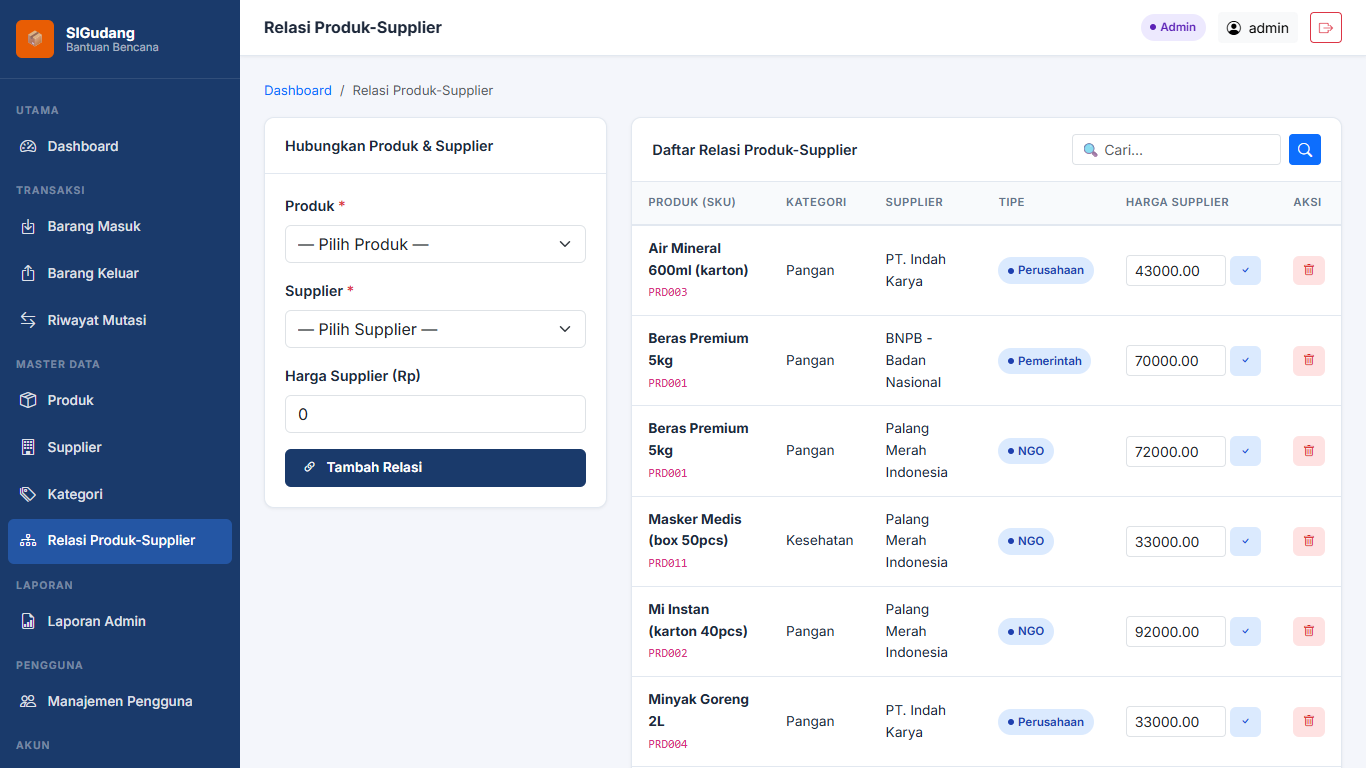
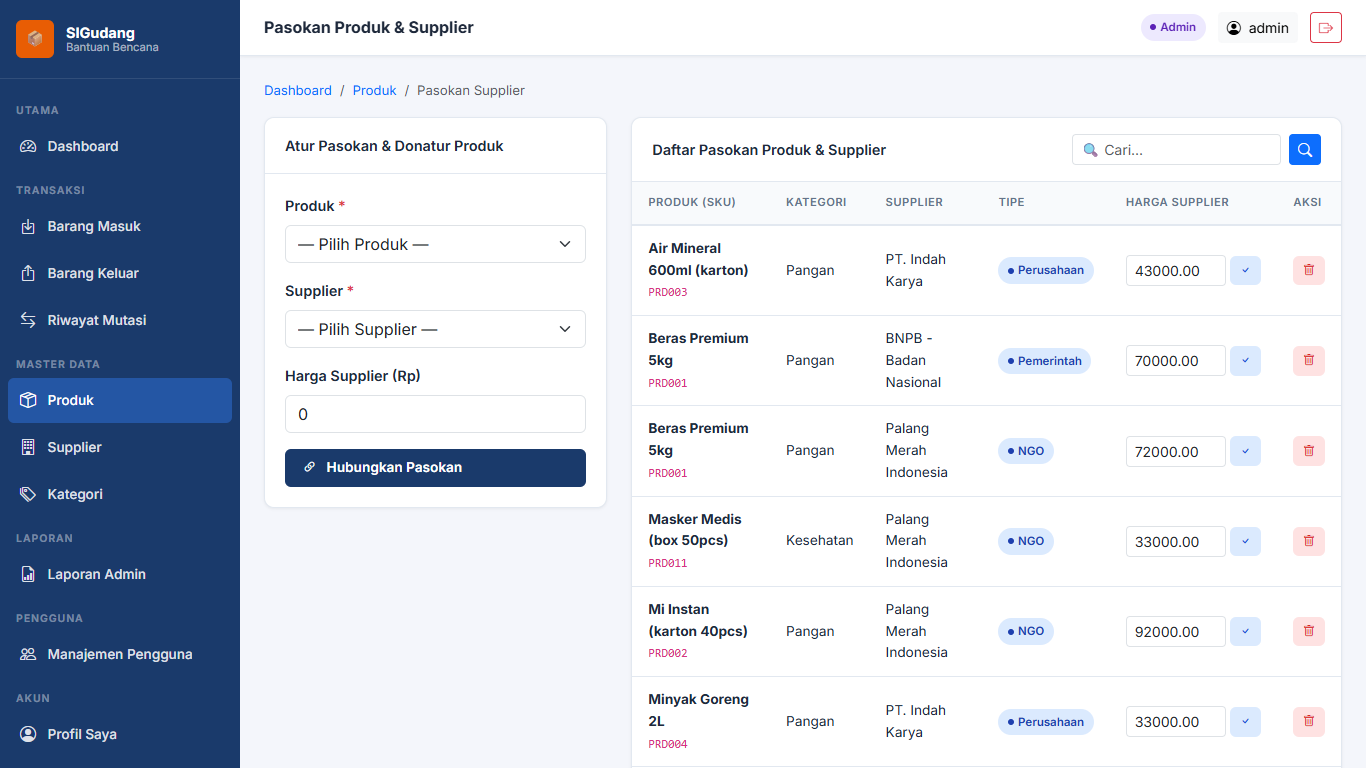
refactor(ui): bersihkan sidebar dari label relasi teknis dan integrasikan pasokan supplier ke modul produk secara profesional

diff --git a/admin/produk_supplier.php b/admin/produk_supplier.php
@@ -71,18 +71,18 @@ $rows = $st->fetchAll();
 $products  = $db->query("SELECT id,sku,name FROM products ORDER BY name")->fetchAll();
 $suppliers = $db->query("SELECT id,name,type FROM suppliers ORDER BY name")->fetchAll();
 
-$pageTitle = 'Relasi Produk-Supplier';
-$activeMenu = 'produk_supplier';
+$pageTitle = 'Pasokan Produk & Supplier';
+$activeMenu = 'produk';
 include dirname(__DIR__) . '/views/partials/header_admin.php';
 ?>
-<nav class="breadcrumb-bar"><ol class="breadcrumb"><li class="breadcrumb-item"><a href="<?= BASE_URL ?>/admin/dashboard.php">Dashboard</a></li><li class="breadcrumb-item active">Relasi Produk-Supplier</li></ol></nav>
+<nav class="breadcrumb-bar"><ol class="breadcrumb"><li class="breadcrumb-item"><a href="<?= BASE_URL ?>/admin/dashboard.php">Dashboard</a></li><li class="breadcrumb-item"><a href="<?= BASE_URL ?>/admin/produk.php">Produk</a></li><li class="breadcrumb-item active">Pasokan Supplier</li></ol></nav>
 <?php if ($msg): ?><div class="alert alert-<?= $msgType ?> alert-dismissible fade show"><?= e($msg) ?><button type="button" class="btn-close" data-bs-dismiss="alert"></button></div><?php endif; ?>
 
 <div class="row g-4">
   <!-- Form tambah relasi -->
   <div class="col-lg-4">
     <div class="card-panel">
-      <div class="card-panel-header">Hubungkan Produk & Supplier</div>
+      <div class="card-panel-header">Atur Pasokan & Donatur Produk</div>
       <div class="card-panel-body">
         <form method="POST">
           <?= csrfField() ?>
@@ -105,7 +105,7 @@ include dirname(__DIR__) . '/views/partials/header_admin.php';
             <label class="form-label fw-semibold">Harga Supplier (Rp)</label>
             <input type="number" name="supplier_price" class="form-control" value="0" min="0">
           </div>
-          <button type="submit" class="btn-primary-custom w-100"><i class="bi bi-link-45deg me-1"></i>Tambah Relasi</button>
+          <button type="submit" class="btn-primary-custom w-100"><i class="bi bi-link-45deg me-1"></i>Hubungkan Pasokan</button>
         </form>
       </div>
     </div>
@@ -115,7 +115,7 @@ include dirname(__DIR__) . '/views/partials/header_admin.php';
   <div class="col-lg-8">
     <div class="card-panel">
       <div class="card-panel-header">
-        <span>Daftar Relasi Produk-Supplier</span>
+        <span>Daftar Pasokan Produk & Supplier</span>
         <form method="GET" class="d-flex gap-2">
           <input type="text" name="q" class="form-control form-control-sm" placeholder="🔍 Cari..." value="<?= e($search) ?>">
           <button type="submit" class="btn btn-sm btn-primary"><i class="bi bi-search"></i></button>

diff --git a/admin/produk.php b/admin/produk.php
@@ -108,9 +108,14 @@ include dirname(__DIR__) . '/views/partials/header_admin.php';
 
 <div class="d-flex justify-content-between align-items-center mb-3">
   <div></div>
-  <button class="btn-primary-custom" data-bs-toggle="modal" data-bs-target="#modalProduk" onclick="resetForm()">
-    <i class="bi bi-plus-lg"></i> Tambah Produk
-  </button>
+  <div class="d-flex gap-2">
+    <a href="<?= BASE_URL ?>/admin/produk_supplier.php" class="btn btn-outline-primary">
+      <i class="bi bi-truck me-1"></i> Pasokan Supplier
+    </a>
+    <button class="btn-primary-custom" data-bs-toggle="modal" data-bs-target="#modalProduk" onclick="resetForm()">
+      <i class="bi bi-plus-lg"></i> Tambah Produk
+    </button>
+  </div>
 </div>
 
 <!-- Filter -->

diff --git a/views/partials/header_admin.php b/views/partials/header_admin.php
@@ -79,11 +79,6 @@ $activeMenu = $activeMenu ?? '';
         <i class="bi bi-tags nav-icon"></i> Kategori
       </a>
     </div>
-    <div class="nav-item">
-      <a href="<?= BASE_URL ?>/admin/produk_supplier.php" class="nav-link <?= $activeMenu==='produk_supplier'?'active':'' ?>">
-        <i class="bi bi-diagram-3 nav-icon"></i> Relasi Produk-Supplier
-      </a>
-    </div>
 
     <div class="nav-section-label">Laporan</div>
     <div class="nav-item">

diff --git a/README.md b/README.md
@@ -118,11 +118,11 @@ Berikut adalah tangkapan layar asli (*live captured*) dan penjelasan fungsional 
 - **Fitur Utama**: CRUD data supplier, klasifikasi tipe lembaga, nomor kontak darurat, alamat, dan visibilitas publik.
 - **Teknis Backend**: Validasi integritas relasi referensial sebelum aksi hapus supplier.
 
-#### 15. Manajemen Relasi Many-to-Many Produk-Supplier (`admin/produk_supplier.php`)
-![Halaman 15: Relasi Produk Supplier](docs/screenshots/13_admin_produk_supplier.png)
-- **Tujuan**: Memetakan hubungan banyak-ke-banyak antara produk bantuan dan para supplier/donatur yang menyediakannya.
-- **Fitur Utama**: Penetapan harga referensi per supplier, penambahan relasi baru, pembaruan harga, dan penghapusan relasi.
-- **Teknis Backend**: Dikelola melalui tabel perantara (*junction table*) `product_suppliers` dengan *Composite Primary Key* `(product_id, supplier_id)`.
+#### 15. Manajemen Pasokan & Donatur Produk — Relasi Many-to-Many (`admin/produk_supplier.php`)
+![Halaman 15: Pasokan Produk dan Supplier](docs/screenshots/13_admin_produk_supplier.png)
+- **Tujuan**: Mengelola rantai pasokan dan donatur per item barang bantuan (diakses secara profesional dan terintegrasi melalui menu **Produk** > tombol **Pasokan Supplier**).
+- **Fitur Utama**: Form pemetaan pasokan produk ke lembaga donor/supplier, penetapan harga referensi pasokan, pembaruan harga, dan filter pencarian real-time. Tampilan terintegrasi rapi sebagai sub-alur Master Produk sehingga sidebar utama tetap bersih dan berstandar aplikasi *enterprise*.
+- **Teknis Backend**: Implementasi murni relasi **Many-to-Many (M : N)** menggunakan tabel perantara (*junction table*) `product_suppliers` dengan *Composite Primary Key* `(product_id, supplier_id)` dan constraint `ON DELETE CASCADE`.
 
 #### 16. Manajemen Kategori Logistik (`admin/kategori.php`)
 ![Halaman 16: Manajemen Kategori](docs/screenshots/14_admin_kategori.png)
